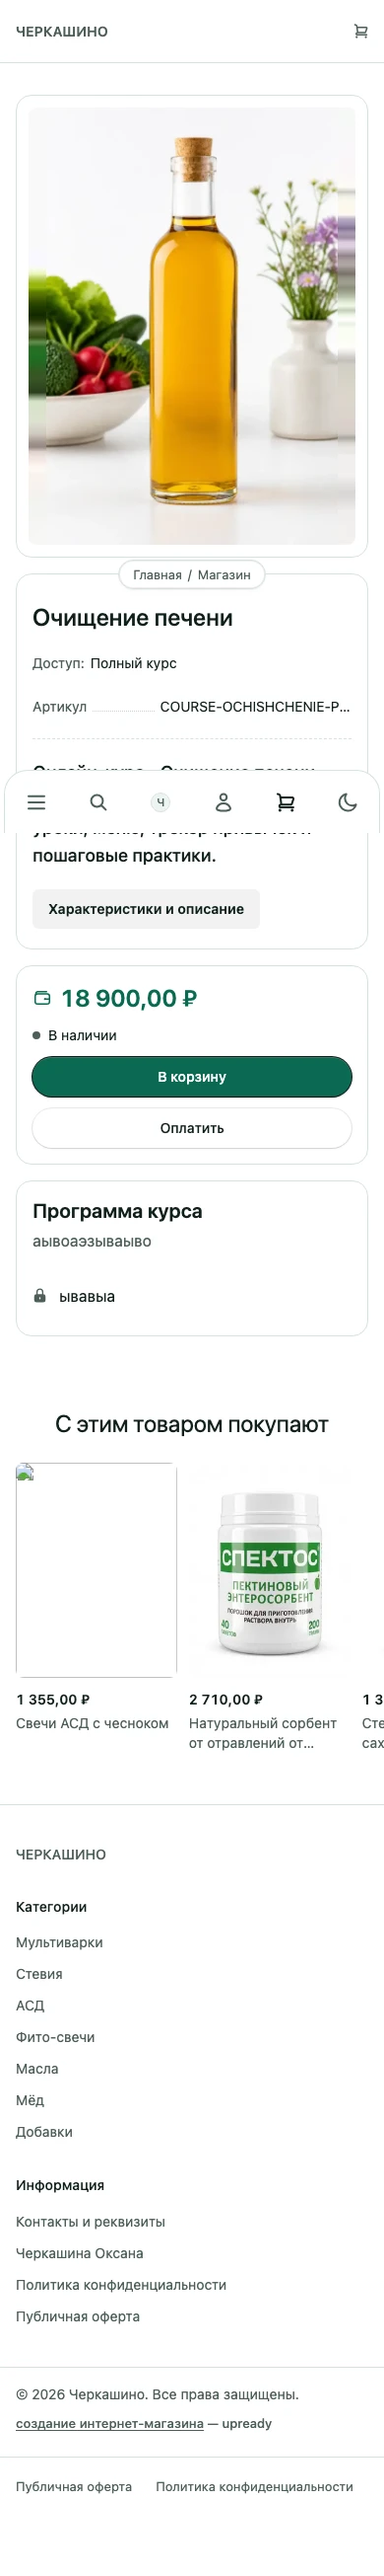
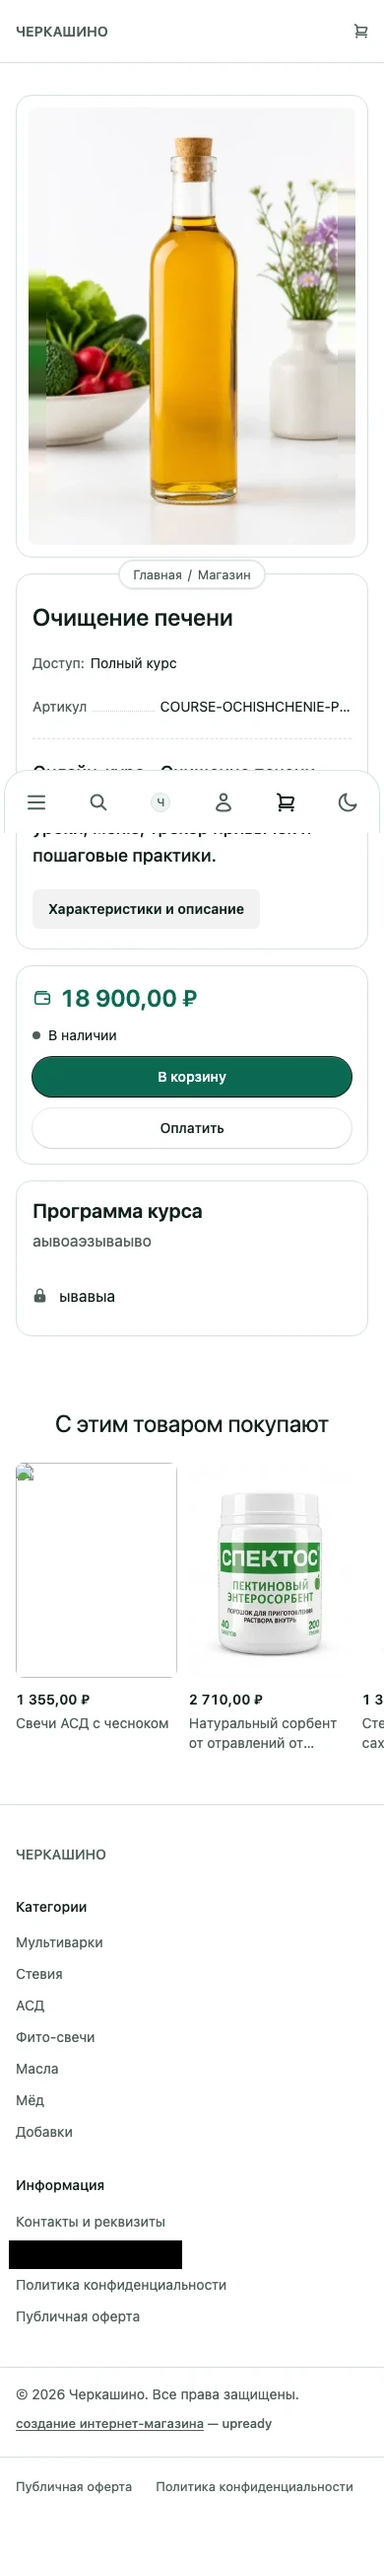
fix: paint over buyer reviews and the shop owner's name on eight evidence screenshots

Changed region(s): [[0.0308, 0.869, 0.4923, 0.9]]

diff --git a/docs/evidence/t-2026-09-27-06/README.md b/docs/evidence/t-2026-09-27-06/README.md
@@ -26,6 +26,8 @@
 
 Строки ячейки считаются по прямоугольникам текстовых узлов, склеенным по вертикальному перекрытию. Снимки: `shots/<before|after>-panel-<экран>-<ширина>.webp` и `shots/<before|after>-shop-<course|product>-<ширина>.webp`.
 
+На снимках `shop-product` и `shop-course` 04.10 закрашены отзывы покупателей и ссылка подвала с ФИО владельца магазина: копия live показывала настоящие данные (t-2026-10-03-59, запись в [EVIDENCE.yml](EVIDENCE.yml)). Buy box и его ширина на снимках видны как прежде.
+
 | Проверка | До (dev) | После |
 |---|---|---|
 | A `/product-attributes`, 1440 / 390 | 2 / 4 строки: «Страна производства» + «Россия, Китай, Таиланд, Индия»; на 390 ещё «Выбор из списка» 3 и бейджи 2 | 1 / 1 |
